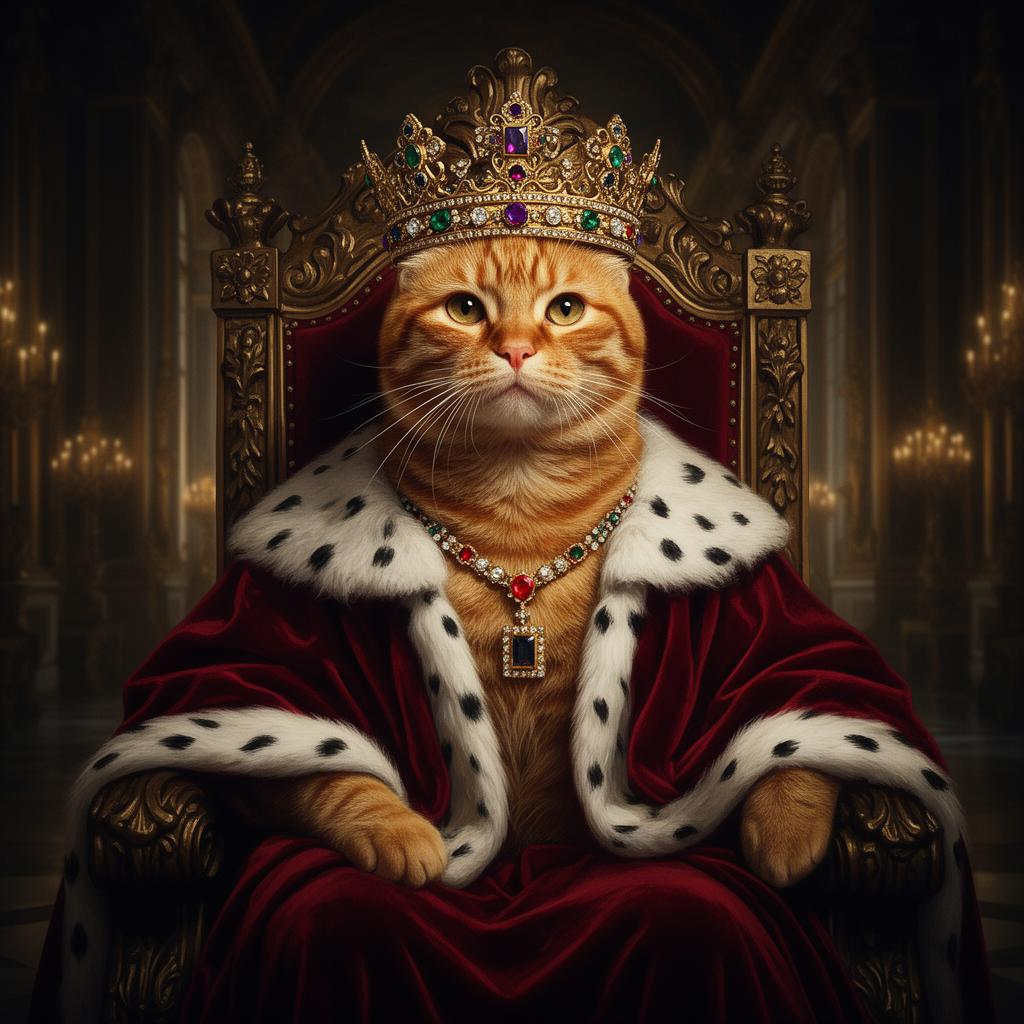
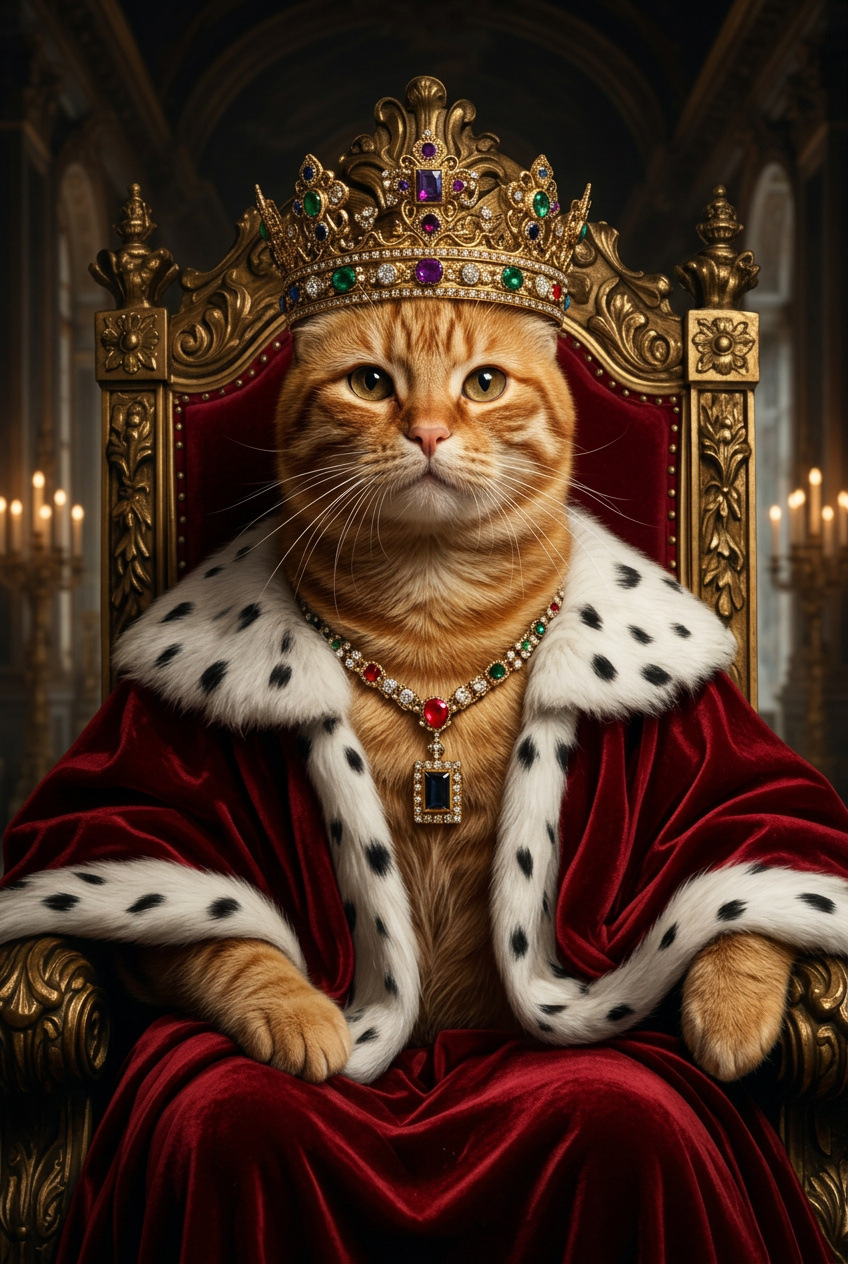
Changes

diff --git a/src/pages/Index.tsx b/src/pages/Index.tsx
@@ -1843,7 +1843,7 @@ function HomePage({ onGenerate }) {
           <p style={{ fontSize:15, color:T.muted, textAlign:"center", marginBottom:48, lineHeight:1.65, fontFamily:"'Poppins',sans-serif" }}>Every purchase is a memory made permanent. Every occasion deserves a masterpiece.</p>
           <div style={{ display:"grid", gridTemplateColumns:"repeat(3,1fr)", gap:18 }} className="pg3">
             {[
-              { cat:"pets",     img:scenePetsBrutus, imgs:[scenePetsBrutus, scenePetsPitbull, scenePetsGallery], Icon:PawPrint, title:"Pets",     body:"Honor the companion who fills your days with unconditional joy.", cta:"Create A Pet Portrait" },
+              { cat:"pets",     img:scenePetsBrutus, imgs:[scenePetsBrutus, scenePetsPitbull, scenePetsGallery, scenePetKing], Icon:PawPrint, title:"Pets",     body:"Honor the companion who fills your days with unconditional joy.", cta:"Create A Pet Portrait" },
               { cat:"babies",   img:sceneBabiesSkateboard, imgs:[sceneBabiesSkateboard, sceneBabiesSuperman, sceneBabiesSoccer], Icon:Baby,     title:"Babies",   body:"Capture the wonder of their earliest moments before they become memories.", cta:"Create A Baby Portrait" },
               { cat:"couples",  img:sceneCouplesRings, imgs:[sceneCouplesRings, sceneCouplesTouch, sceneCouplesKiss], Icon:Heart, title:"Couples", body:"Your love story told in timeless art. The perfect anniversary gift.", cta:"Create A Couples Portrait" },
             ].map(item => (
